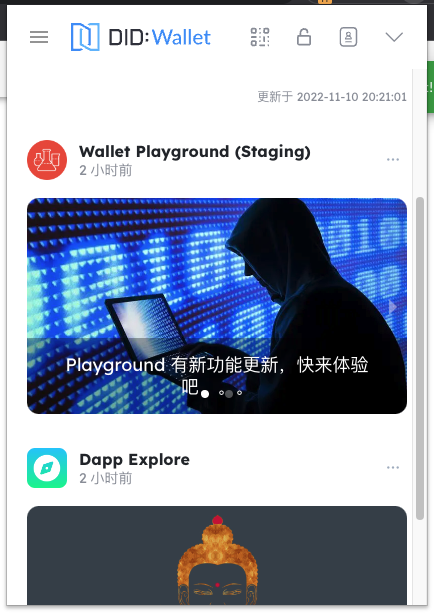
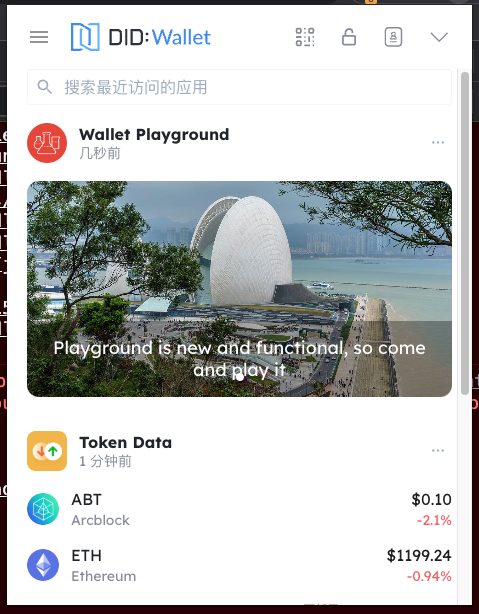
chore: 部分发送通知文档内容，添加代码和截图

diff --git a/developer/docs/pages/how-to/notification/index.md b/developer/docs/pages/how-to/notification/index.md
@@ -164,23 +164,8 @@ The wallet can receive notifications on the message page
 
 ```javascript
 // send feed message
-const feedTitles = [
-  'Playground 又又又有新功能上新啦，还不快来体验',
-  '更多新奇好玩的功能就在这里...',
-  '这里有关于 DID Connect 的一切，快来体验吧...',
-  '不知道什么是 DID Connect？那就点进来试试吧...',
-  '新增 Feed 流功能，赶快进来看看吧...',
-  '叮咚，叮咚，新年上新，进来看看吧...',
-];
-const feedCovers = [
-  'https://www.arcblock.io/blog/static/e764f965cad5b051eea9616da31e87ce/11382/cover.jpg',
-  'https://www.arcblock.io/blog/static/0cad6ff5c9f6da9ba3e6bda5754e80d4/b17e2/cover.png',
-  'https://www.arcblock.io/blog/static/1a80aecdfe20302d590426a0264f4001/1eba9/cover.jpg',
-  'https://www.arcblock.io/blog/static/601502c3b49551c102668fbd85828478/11382/cover.jpg',
-  'https://www.arcblock.io/blog/static/edc8c8c6590ed34ab81dcae62962813f/832a6/cover.jpg',
-  'https://www.arcblock.io/blog/static/3de65fca3c03276c9700f067af17e621/11382/cover.jpg',
-];
-const randomIndex = Math.floor(Math.random() * feedTitles.length);
+const feedTitles = ['Playground is new and functional, so come and play it'];
+const feedCovers = ['https://www.arcblock.io/blog/static/e764f965cad5b051eea9616da31e87ce/11382/cover.jpg'];
 await Notification.sendToUser(userDid, {
   type: 'feed',
   feedType: 'graphic',
@@ -188,8 +173,8 @@ await Notification.sendToUser(userDid, {
     cardTitle: 'Playground Promotion',
     items: [
       {
-        title: feedTitles[randomIndex],
-        cover: feedCovers[randomIndex],
+        title: feedTitles[0],
+        cover: feedCovers[0],
         link: 'https://www.arcblock.io',
       },
     ],

diff --git a/developer/docs/pages/how-to/notification/index.zh.md b/developer/docs/pages/how-to/notification/index.zh.md
@@ -164,23 +164,8 @@ await Notification.sendToUser(userDid, {
 
 ```javascript
 // 发送 feed 信息
-const feedTitles = [
-  'Playground 又又又有新功能上新啦，还不快来体验',
-  '更多新奇好玩的功能就在这里...',
-  '这里有关于 DID Connect 的一切，快来体验吧...',
-  '不知道什么是 DID Connect？那就点进来试试吧...',
-  '新增 Feed 流功能，赶快进来看看吧...',
-  '叮咚，叮咚，新年上新，进来看看吧...',
-];
-const feedCovers = [
-  'https://www.arcblock.io/blog/static/e764f965cad5b051eea9616da31e87ce/11382/cover.jpg',
-  'https://www.arcblock.io/blog/static/0cad6ff5c9f6da9ba3e6bda5754e80d4/b17e2/cover.png',
-  'https://www.arcblock.io/blog/static/1a80aecdfe20302d590426a0264f4001/1eba9/cover.jpg',
-  'https://www.arcblock.io/blog/static/601502c3b49551c102668fbd85828478/11382/cover.jpg',
-  'https://www.arcblock.io/blog/static/edc8c8c6590ed34ab81dcae62962813f/832a6/cover.jpg',
-  'https://www.arcblock.io/blog/static/3de65fca3c03276c9700f067af17e621/11382/cover.jpg',
-];
-const randomIndex = Math.floor(Math.random() * feedTitles.length);
+const feedTitles = ['Playground is new and functional, so come and play it'];
+const feedCovers = ['https://www.arcblock.io/blog/static/e764f965cad5b051eea9616da31e87ce/11382/cover.jpg'];
 await Notification.sendToUser(userDid, {
   type: 'feed',
   feedType: 'graphic',
@@ -188,8 +173,8 @@ await Notification.sendToUser(userDid, {
     cardTitle: 'Playground Promotion',
     items: [
       {
-        title: feedTitles[randomIndex],
-        cover: feedCovers[randomIndex],
+        title: feedTitles[0],
+        cover: feedCovers[0],
         link: 'https://www.arcblock.io',
       },
     ],
